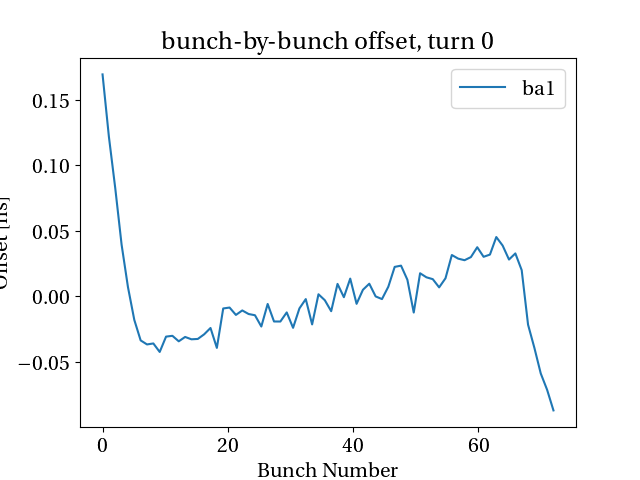
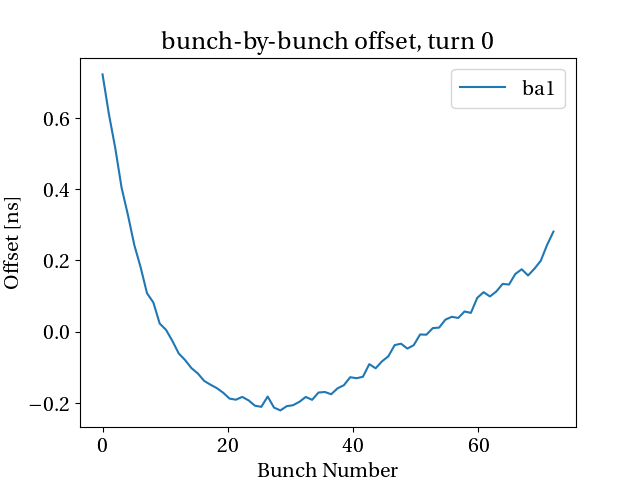
Fixed simulation without otfb and with otfb only.

diff --git a/sim_files/OTFB_acq_simulation_ft_real.py b/sim_files/OTFB_acq_simulation_ft_real.py
@@ -268,10 +268,13 @@ if args.gllrf_config is not None:
                     0.3/0.33 * tr]
 
 if IMP_CONFIG == 1:
+    # SPS impedance model with OTFB model
     modelStr = "futurePostLS2_SPS_noMain200TWC.txt"     # Impedance without 200MHz TWC impedance
 elif IMP_CONFIG == 2:
+    # SPS impedance model only
     modelStr = "futurePostLS2_SPS.txt"                  # Impedance with 200 MHz TWC impedance reduced by 20
 elif IMP_CONFIG == 3:
+    # SPS OTFB model only
     pass
 
 N_tot = N_t + N_ir
@@ -391,7 +394,8 @@ SPS_rf_tracker = RingAndRFTracker(rfstation, beam, TotalInducedVoltage=total_imp
 SPS_tracker = FullRingAndRF([SPS_rf_tracker])
 
 profile.track()
-total_imp.induced_voltage_sum()
+if IMP_CONFIG != 3:
+    total_imp.induced_voltage_sum()
 
 # Set up directories for saving results ---------------------------------------
 today = date.today()
@@ -413,8 +417,9 @@ print('Voltage:')
 print('\tV =', V)
 print('\tV_part', V_part)
 print('One-Turn Feedback:')
-print('\ta_comb =', OTFB.OTFB_1.a_comb, OTFB.OTFB_2.a_comb)
-print('\tG_llrf =', OTFB.OTFB_1.G_llrf, OTFB.OTFB_2.G_llrf)
+if IMP_CONFIG != 2:
+    print('\ta_comb =', OTFB.OTFB_1.a_comb, OTFB.OTFB_2.a_comb)
+    print('\tG_llrf =', OTFB.OTFB_1.G_llrf, OTFB.OTFB_2.G_llrf)
 
 # Particle tracking -----------------------------------------------------------
 if not GEN:
@@ -435,13 +440,16 @@ if not GEN:
     for i in range(N_tot):
         SPS_tracker.track()
         profile.track()
-        total_imp.induced_voltage_sum()
-        OTFB.track()
+        if IMP_CONFIG != 3:
+            total_imp.induced_voltage_sum()
+        if IMP_CONFIG != 2:
+            OTFB.track()
 
         if i % dt_ptrack == 0:
             # Power
-            OTFB.OTFB_1.calc_power()
-            OTFB.OTFB_2.calc_power()
+            if IMP_CONFIG != 2:
+                OTFB.OTFB_1.calc_power()
+                OTFB.OTFB_2.calc_power()
 
             fwhm_arr[:, n], pos_arr[:, n], pos_fit_arr[:, n], x_72, y_72 = dut.bunch_params(profile,
                                                                                             get_72=False)
@@ -461,25 +469,29 @@ if not GEN:
 
 
         if i % dt_plot == 0:
-            OTFB.OTFB_1.calc_power()
-            OTFB.OTFB_2.calc_power()
+            if IMP_CONFIG != 2:
+                OTFB.OTFB_1.calc_power()
+                OTFB.OTFB_2.calc_power()
 
             if SAVE_RESULTS:
-                dut.save_plots_OTFB(OTFB, lxdir + sim_dir + f'fig/', i)
-                dut.save_data(OTFB, lxdir + sim_dir + f'sim_data/', i)
+                if IMP_CONFIG != 2:
+                    dut.save_plots_OTFB(OTFB, lxdir + sim_dir + f'fig/', i)
+                    dut.save_data(OTFB, lxdir + sim_dir + f'sim_data/', i)
+
                 dut.save_profile(profile, lxdir + sim_dir + f'sim_data/', i)
                 dut.plot_bbb_offset(pos_fit_arr[:, n-1], 4, lxdir + sim_dir + f'fig/', i)
-                if FEEDFORWARD:
+                if FEEDFORWARD and IMP_CONFIG != 2:
                     dut.save_plots_FF(OTFB, lxdir + sim_dir + f'fig/', i)
 
         if i < N_ir != 0:
             beam.intensity = ramp[i]
             beam.ratio = beam.intensity / beam.n_macroparticles
 
+    if IMP_CONFIG != 2:
+        OTFB.OTFB_1.calc_power()
+        OTFB.OTFB_2.calc_power()
+        dut.save_plots_OTFB(OTFB, lxdir + sim_dir + f'fig/', N_tot)
 
-    OTFB.OTFB_1.calc_power()
-    OTFB.OTFB_2.calc_power()
-    dut.save_plots_OTFB(OTFB, lxdir + sim_dir + f'fig/', N_tot)
     dut.plot_bbb_offset(pos_fit_arr[:, n - 1], 4, lxdir + sim_dir + f'fig/', N_tot)
 
     dut.plot_params(fwhm_arr, pos_arr, pos_fit_arr,
@@ -491,7 +503,8 @@ if not GEN:
 
     # Save the results to their respective directories
     if SAVE_RESULTS:
-        dut.save_data(OTFB, lxdir + sim_dir + f'sim_data/', N_tot)
+        if IMP_CONFIG != 2:
+            dut.save_data(OTFB, lxdir + sim_dir + f'sim_data/', N_tot)
 
         if not os.path.exists(lxdir + sim_dir + f'profile_data/'):
             os.makedirs(lxdir + sim_dir + f'profile_data/')
@@ -500,6 +513,6 @@ if not GEN:
         np.save(lxdir + sim_dir + f'profile_data/generated_profile_bins_{fit_type}_{N_bunches}_end_{N_t}',
                 profile.bin_centers)
 
-        np.save(lxdir + sim_dir + f"sim_data/induced_voltage", SPS_rf_tracker.totalInducedVoltage.induced_voltage)
-        np.save(lxdir + sim_dir + f"sim_data/induced_voltage_time", SPS_rf_tracker.totalInducedVoltage.time_array)
-
+        if IMP_CONFIG != 3:
+            np.save(lxdir + sim_dir + f"sim_data/induced_voltage", SPS_rf_tracker.totalInducedVoltage.induced_voltage)
+            np.save(lxdir + sim_dir + f"sim_data/induced_voltage_time", SPS_rf_tracker.totalInducedVoltage.time_array)

diff --git a/sim_files/OTFB_induced_voltage_sign.py b/sim_files/OTFB_induced_voltage_sign.py
@@ -245,7 +245,7 @@ V_part = 0.5442095845867135
 #llrf_g = G_llrf_ls
 
 Commissioning = CavityFeedbackCommissioning(open_FF=True, debug=False,
-                                            rot_IQ=-1, FIR_filter=1)
+                                            rot_IQ=1, FIR_filter=1, open_FB=True)
 OTFB = SPSCavityFeedback(rfstation, beam, profile, post_LS2=True, V_part=V_part,
                          Commissioning=Commissioning, G_tx=G_tx, a_comb=a_comb,
                          G_llrf=16, df=domega, G_ff=1)   # TODO: change back to only 20
@@ -510,20 +510,27 @@ if not GENERATE:
         plt.title('Antenna 3-section')
         plt.plot(np.abs(OTFB.OTFB_1.V_ANT[-h:]))
 
-        plt.figure()
-        plt.title('Power 3-section')
-        OTFB.OTFB_1.calc_power()
-        plt.plot(OTFB.OTFB_1.P_GEN[-h:])
+        #plt.figure()
+        #plt.title('Power 3-section')
+        #OTFB.OTFB_1.calc_power()
+        #plt.plot(OTFB.OTFB_1.P_GEN[-h:])
 
         plt.figure()
         plt.title('Antenna 4-section')
         plt.plot(np.abs(OTFB.OTFB_2.V_ANT[-h:]))
 
-        plt.figure()
-        plt.title('Power 4-section')
-        OTFB.OTFB_2.calc_power()
-        plt.plot(OTFB.OTFB_2.P_GEN[-h:])
+        #plt.figure()
+        #plt.title('Power 4-section')
+        #OTFB.OTFB_2.calc_power()
+        #plt.plot(OTFB.OTFB_2.P_GEN[-h:])
 
+        plt.figure()
+        plt.title('Vgen 3-section')
+        plt.plot(np.abs(OTFB.OTFB_1.V_IND_COARSE_GEN[-h:]))
+
+        plt.figure()
+        plt.title('Vgen 4-section')
+        plt.plot(np.abs(OTFB.OTFB_2.V_IND_COARSE_GEN[-h:]))
 
         beam_ind, gen_ind = dut.find_induced_and_generator(OTFB, rfstation, profile, SPS_rf_tracker)
         beam_eff_ind = dut.find_effective_induced(OTFB, rfstation, profile, SPS_rf_tracker)
